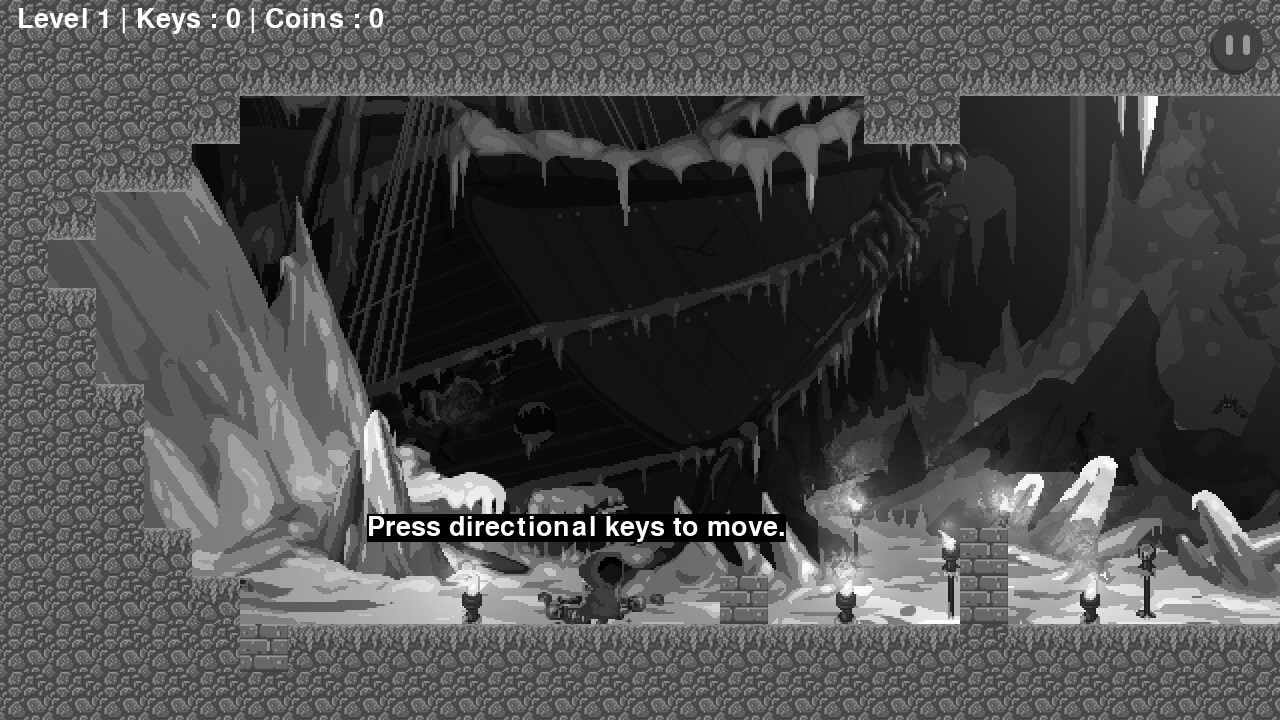
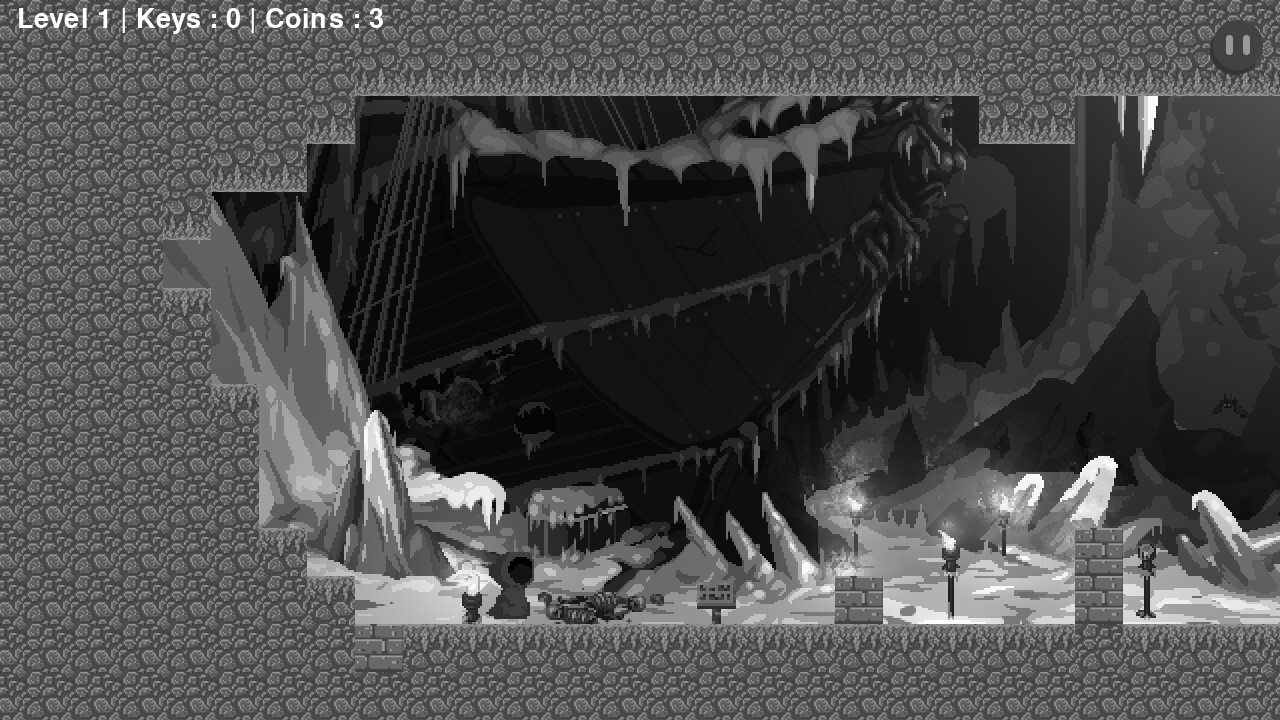
sdfrhtgnx

Changed region(s): [[0.0, 0.0, 1.0, 1.0]]

diff --git a/settings.py b/settings.py
@@ -53,17 +53,17 @@ levelmap=[  [ #le joueur voit par paquet de dix lignes
  'EEEEEEEEEEEEEEEEEEEEEEEEEEEEEEEEEEEEEEEEEEEEEEEEEEEEEEEEEEEEEEEEEEEEEEEEEEEEEEEEEEEEEEEEEEEEEEEEEEEEEEEEEEEEEEEEEEEEEEEEEEEEEEEEEEEEEEEEEEEEEEEEEEEEEEEEEEEEEEEEEE',
  'EEEEEEEEEEEEEEEEEEEEEEEEEEEEEEEEEEEEEEEEEEEEEEEEEEEEEEEEEEEEEEEEEEEEEEEEEEEEEEEEEEEEEEEEEEEEEEEEEEEEEEEEEEEEEEEEEEEEEEEEEEEEEEEEEEEEEEEEEEEEEEEEEEEEEEEEEEEEEEEEEE',
 'EEEEEEEEEEETTTTTTTTTTTTTTTTTTTTTEEEEETTTTTTTTTTTTTTTTTTTTTTTTTTTTTTTTTTTTTTTTTTTTTTTTTTTTTTTTTTTTTTTTTTTTTTTTTTTTTTTTTTTTTTTTTTTTTTTTTTTTTTTTTTTTTTTTTTTTTTTTT',
-'EEEEEEEEEEU                     TTEET                           W        W                                                                      ',
-'EEEEEEEEEEU                       ET                         UUUWUUU     W                                                                      ',
-'EEEEEEEEEEU       GG     WWW      T                          D K K D     W                                                                      ',                                                                                                                
-'EEEEEEEEEEU           W  W                                    M          W                                                                       ',
-'EEEEEEEEEEU           ↓  U                W         W        UUUUUUU     WWWWWWW                                                                        ',
-'EEEEEEEEEEUGGG          ←U                W   WW                W           D                                                                    ',
-'EEEEEEEEEEUE   W   W     U                W                   K U                                                                              ',
-'EEEEEEEEEEU              U             W                 W      U        WWWWWWW                                                                      ',
-'EEEEEEEEEEU     P        U  WW                       W       WWWW                                                                               ',
-'EEEEEEEEEEU            GGG           W                                                                                                         ',
-'EEEEEEEEEEU        ↑↑↑↑EEE↑↑↑↑↑↑↑↑↑↑↑↑↑↑↑↑↑↑↑↑↑↑↑↑↑↑↑↑↑↑↑↑↑↑↑↑↑↑↑↑↑↑↑↑↑↑↑↑↑↑↑↑↑↑↑↑↑↑↑↑↑↑↑↑↑↑↑↑↑↑↑↑↑↑↑↑↑↑↑↑↑↑↑↑↑↑↑↑↑↑↑↑↑↑↑↑↑↑↑↑↑↑↑↑↑↑↑↑↑↑↑↑↑↑↑↑↑↑                                                                                                                          ',
+'EEEEEEEEEEU                     TTEET                           W        W                           U                                            ',
+'EEEEEEEEEEU                       ET                         UUUWUUU     W                           U                                            ',
+'EEEEEEEEEEU       GG     WWW      T                          D K K D     W                           U    W      UUUUUUUUUUUUUUUUUUUUUUUUUUUUUUUUU                                 ',                                                                                                                
+'EEEEEEEEEEU           W  W                                    M          W       🚩        U          U    W                       ←U                 ',
+'EEEEEEEEEEU           ↓  U                W         W        UUUUUUU     WWWWWWWUUUUUU         W          W                       ←U           K          ',
+'EEEEEEEEEEUGGG          ←U                W   WW                W           D        U                    W                  U    ←U               ',
+'EEEEEEEEEEUE   W   W     U                W                   K U                    UWW                  W   U                   ←U          UUU  ',
+'EEEEEEEEEEU              U             W                 W      U        WWWWWWW                     U    W            UU         ←U                       ',
+'EEEEEEEEEEU     P        U  WW                       W       WWWW                          U         U    W       U                      UU          ',
+'EEEEEEEEEEU            GGG           W                                            UU    W  U         U    W                                       ',
+'EEEEEEEEEEU        ↑↑↑↑EEE↑↑↑↑↑↑↑↑↑↑↑↑↑↑↑↑↑↑↑↑↑↑↑↑↑↑↑↑↑↑↑↑↑↑↑↑↑↑↑↑↑↑↑↑↑↑↑↑↑↑↑↑↑↑↑↑↑↑↑↑↑↑↑↑↑U↑↑↑↑↑↑↑↑↑U↑↑↑↑W↑↑↑↑↑↑↑↑↑↑↑↑↑↑↑↑↑↑↑↑↑UUUUU↑↑↑↑↑↑↑↑↑↑↑↑↑↑↑↑                                                                                                                          ',
 'EEEEEEEEEEEGGGGGGGGGGGGEEEGGGGGGGGGGGGGGGGGGGGGGGGGGGGGGGGGGGGGGGGGGGGEGGGGGGGGGGGGGGGGGGGGGGGGGGGGGGGGGGGGGGGGGGGGGGGGGGGGGGGGGGGGGGGGGGGGGGGGG',
 'EEEEEEEEEEEEEEEEEEEEEEEEEEEEEEEEEEEEEEEEEEEEEEEEEEEEEEEEEEEEEEEEEEEEEEEEEEEEEEEEEEEEEEEEEEEEEEEEEEEEEEEEEEEEEEEEEEEEEEEEEEEEEEEEEEEEEEEEEEEEEEEE',
 'EEEEEEEEEEEEEEEEEEEEEEEEEEEEEEEEEEEEEEEEEEEEEEEEEEEEEEEEEEEEEEEEEEEEEEEEEEEEEEEEEEEEEEEEEEEEEEEEEEEEEEEEEEEEEEEEEEEEEEEEEEEEEEEEEEEEEEEEEEEEEEEE',

diff --git a/player.py b/player.py
@@ -159,17 +159,30 @@ class Bullet(pygame.sprite.Sprite):
         self.speed = 15
         self.direction = pygame.math.Vector2(0,0)
         self.direction.x = 0
-
+        self.frame_index = 0
+        full_path=f'./alien/bullet/'
+        self.animations = import_folder(full_path)
 
     def update(self):
         self.bullet
         self.rect.x += self.speed * self.direction.x
+        self.frame_index += 0.5 #Ajout au numéro de frame la vitesse d'animation
+        if self.frame_index >= len(self.animations): #si le numéro de frame est supérieur ou égale à la taille de la liste d'image
+            self.frame_index = 0 #le numéro d'image vaut 0
+                        
+        image = self.animations[int(self.frame_index)] #défini l'image à l'arrondi du numéro d'image
+    
+        if self.direction.x == -1: #si le joueur est tourné vers la droite, retourner l'image
+            flipped_image = pygame.transform.flip(image, True, False)
+            self.image = flipped_image
+        else:
+            self.image = image
 
 
     def bullet(self, player):
         self.rect.x = player.rect.x
         self.rect.y = player.rect.y
-        image = pygame.image.load("./alien/bullet.png")
+        image = self.image
 
         
         if player.facing_right == False:
